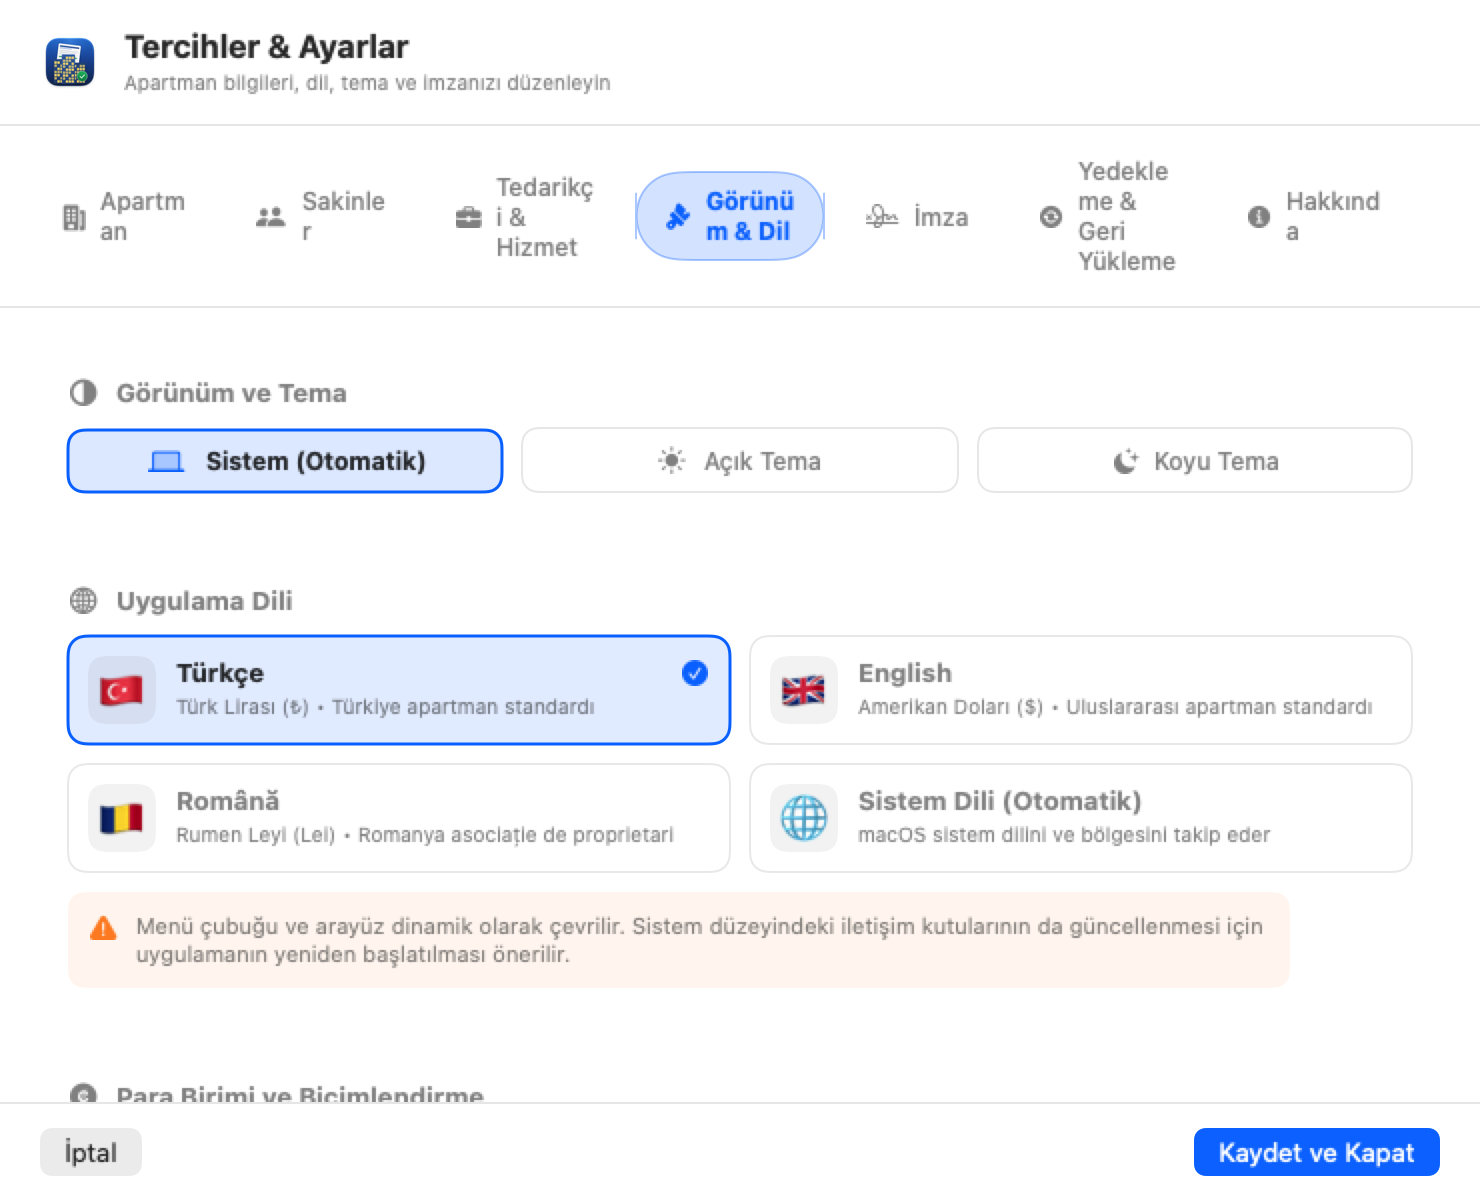
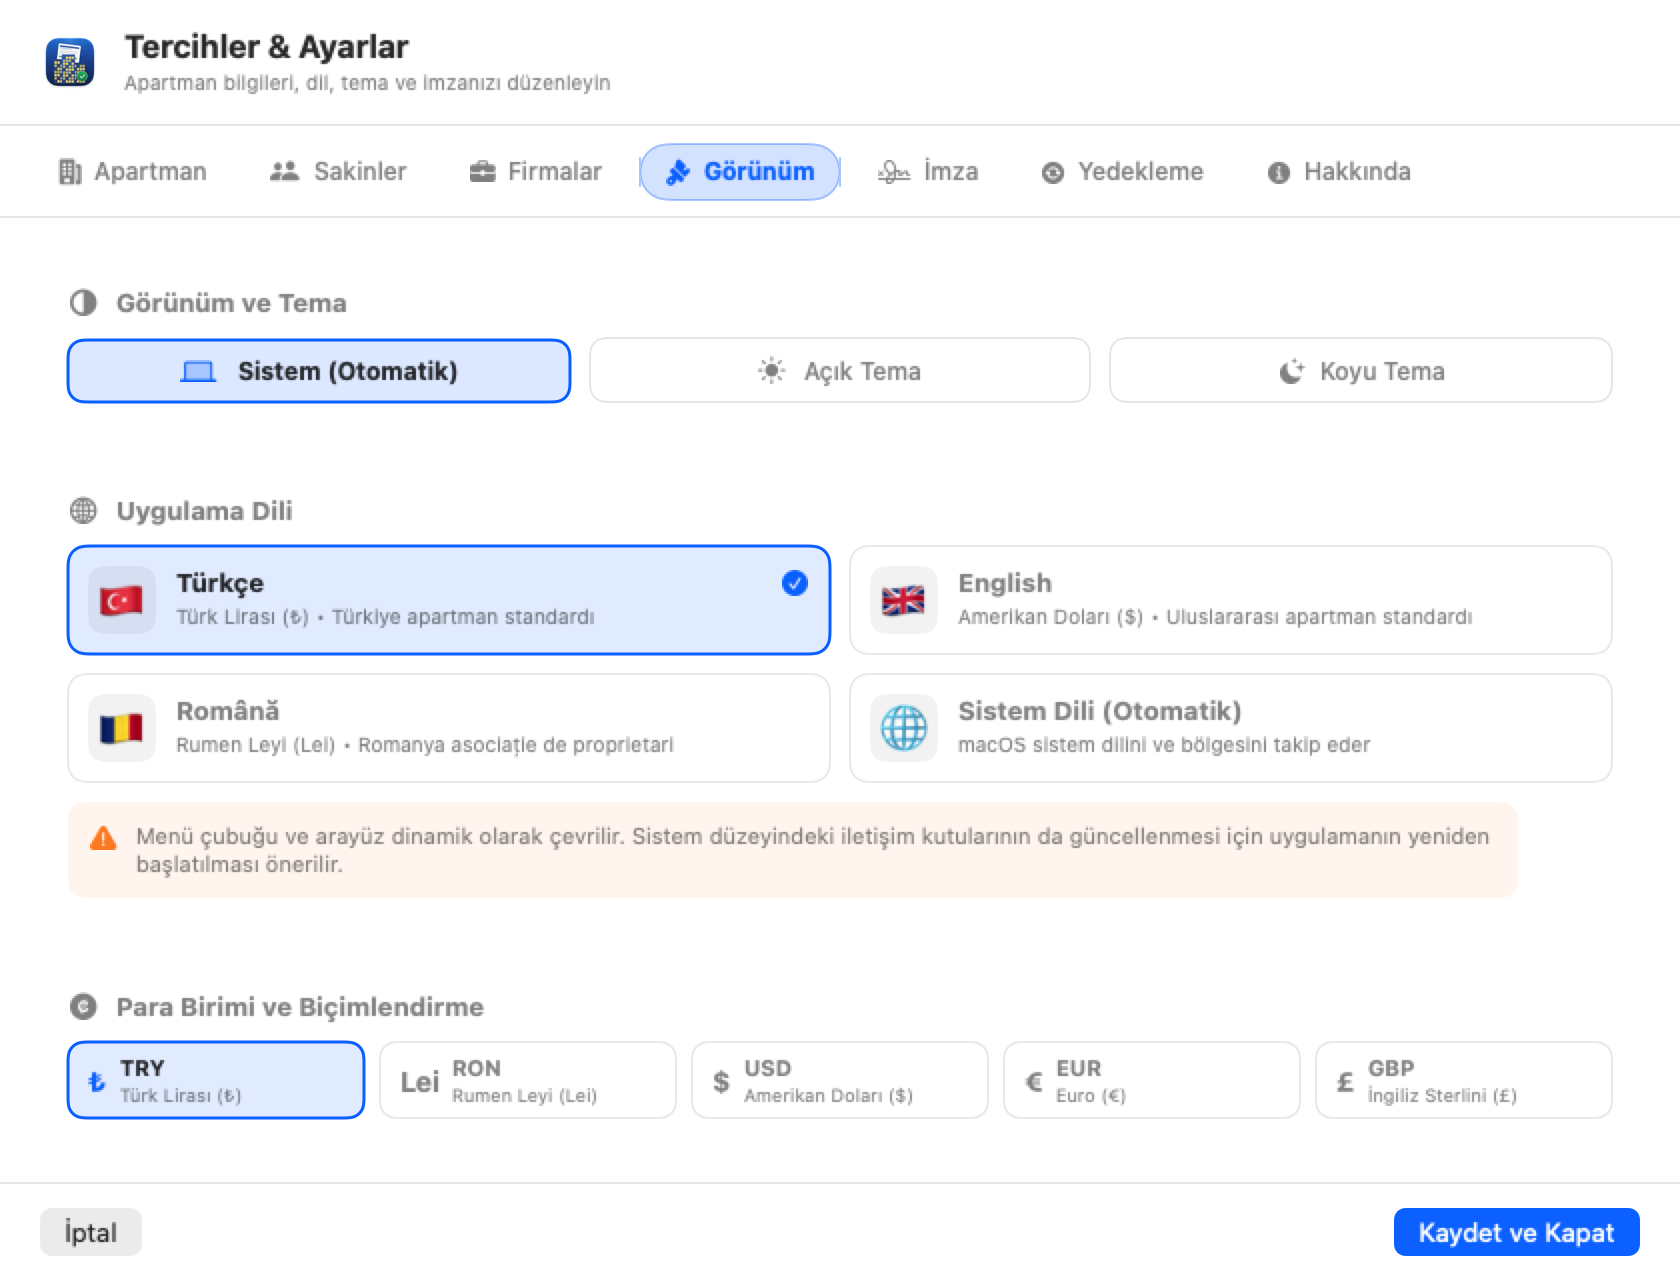
modify fix @ ui: 'expand settings and receipt archive layouts with unclipped cards and labels' - [ui]

diff --git a/aptreceipt/ViewController.swift b/aptreceipt/ViewController.swift
@@ -414,16 +414,16 @@ struct L10n {
     // Settings Tabs
     var tabBuilding: String { tr("Building", "Apartman", "Imobil") }
     var tabResidents: String { tr("Residents", "Sakinler", "Locatari") }
-    var tabAppearance: String { tr("Appearance & Language", "Görünüm & Dil", "Aspect & Limbă") }
+    var tabAppearance: String { tr("Appearance", "Görünüm", "Aspect") }
     var tabSignature: String { tr("Signature", "İmza", "Semnătură") }
-    var tabBackup: String { tr("Backup & Restore", "Yedekleme & Geri Yükleme", "Copie & Restaurare") }
+    var tabBackup: String { tr("Backup", "Yedekleme", "Copie") }
     var tabAbout: String { tr("About", "Hakkında", "Despre") }
 
     // Archive & History Strings
     var archiveTitle: String { tr("Receipt Archive & History", "Makbuz Arşivi ve Geçmişi", "Arhivă și Istoric Chitanțe") }
     var archiveSubtitle: String { tr("Search, review, re-print, and share previously generated receipts", "Daha önce kesilen makbuzları görüntüleyin, filtreleyin, yazdırın ve paylaşın", "Vizualizați, filtrați, tipăriți și partajați chitanțele emise") }
     var archiveSearchPlaceholder: String { tr("Search flat, person, company, or notes…", "Daire no, kişi, firma veya notlarda ara…", "Caută apartament, persoană, furnizor sau notă…") }
-    var filterAll: String { tr("All Receipts", "Tüm Makbuzlar", "Toate Chitanțele") }
+    var filterAll: String { tr("All", "Tümü", "Toate") }
     var filterIncome: String { tr("Income", "Gelir", "Încasări") }
     var filterOutcome: String { tr("Refund", "İade", "Restituiri") }
     var filterManagement: String { tr("Management", "İşletme", "Administrație") }
@@ -618,7 +618,7 @@ struct L10n {
     var applyScenarioButton: String { tr("Apply Preset", "Şablonu Uygula", "Aplică Șablonul") }
 
     // Vendors & Services Tab Strings
-    var tabVendors: String { tr("Vendors & Services", "Tedarikçi & Hizmet", "Furnizori & Servicii") }
+    var tabVendors: String { tr("Vendors", "Firmalar", "Furnizori") }
     var vendorsTitle: String { tr("Vendor Directory & Services", "Tedarikçi & Hizmet Yönetimi", "Gestiune Furnizori & Servicii") }
     var vendorsSubtitle: String { tr("Manage regular vendors, contractors, and preset operating expense services", "Düzenli çalıştığınız firma, usta ve hazır işletme gider kalemlerini yönetin", "Gestionați furnizorii uzuali și serviciile de întreținere") }
     var registeredVendorsBadge: String { tr("Registered Vendors", "Kayıtlı Firma", "Furnizori Înregistrați") }
@@ -763,10 +763,11 @@ struct MainScreen: View {
             ReceiptArchiveSheet(settings: settings) { selectedDraft in
                 viewModel.previewDraft = selectedDraft
             }
+            .frame(width: 860, height: 640)
         }
         .sheet(isPresented: $viewModel.isPresentingSettings) {
             SettingsView(settings: settings)
-                .frame(width: 680, height: 580)
+                .frame(width: 840, height: 640)
         }
         .sheet(isPresented: $settings.showLicenseViewer) {
             LicenseViewerSheet(l10n: l10n)
@@ -1792,6 +1793,17 @@ enum ReceiptKind: String, CaseIterable, Identifiable, Codable {
         }
     }
 
+    func badgeTitle(l10n: L10n) -> String {
+        switch self {
+        case .income:
+            return l10n.filterIncome
+        case .outcome:
+            return l10n.filterOutcome
+        case .managementExpense:
+            return l10n.filterManagement
+        }
+    }
+
     var iconName: String {
         switch self {
         case .income:
@@ -2751,7 +2763,7 @@ struct ReceiptArchiveSheet: View {
                         Text(l10n.filterManagement).tag("management")
                     }
                     .pickerStyle(.segmented)
-                    .frame(width: 340)
+                    .frame(width: 380)
                 }
 
                 // Stats Bar
@@ -2820,7 +2832,7 @@ struct ReceiptArchiveSheet: View {
             .padding(.vertical, 12)
             .background(Color(NSColor.windowBackgroundColor))
         }
-        .frame(minWidth: 700, minHeight: 520)
+        .frame(minWidth: 800, idealWidth: 860, minHeight: 560, idealHeight: 640)
     }
 
     private func archiveRecordRow(_ record: ReceiptRecord) -> some View {
@@ -2838,12 +2850,12 @@ struct ReceiptArchiveSheet: View {
                 Text("#\(record.sequenceNumber)")
                     .font(.system(size: 13, weight: .bold, design: .monospaced))
                     .foregroundColor(badgeColor)
-                Text(record.kind.title(l10n: l10n))
-                    .font(.system(size: 9, weight: .semibold))
+                Text(record.kind.badgeTitle(l10n: l10n))
+                    .font(.system(size: 10, weight: .semibold))
                     .foregroundColor(badgeColor)
                     .lineLimit(1)
             }
-            .frame(width: 80)
+            .frame(width: 86)
             .padding(.vertical, 6)
             .background(badgeColor.opacity(0.12))
             .clipShape(RoundedRectangle(cornerRadius: 6))
@@ -2853,6 +2865,7 @@ struct ReceiptArchiveSheet: View {
                 HStack(spacing: 6) {
                     Text(record.receiver)
                         .font(.system(size: 13, weight: .bold))
+                        .lineLimit(1)
                     if record.showApartmentNumber && record.apartmentNumber > 0 {
                         Text("\(l10n.flatPrefix) \(record.apartmentNumber)")
                             .font(.system(size: 10, weight: .semibold))
@@ -2878,6 +2891,7 @@ struct ReceiptArchiveSheet: View {
                     }
                 }
             }
+            .frame(maxWidth: .infinity, alignment: .leading)
 
             Spacer()
 
@@ -2885,7 +2899,7 @@ struct ReceiptArchiveSheet: View {
             Text(String(format: "%.2f %@", record.amount, record.currency.symbol))
                 .font(.system(size: 15, weight: .bold, design: .rounded))
                 .foregroundColor(badgeColor)
-                .frame(width: 120, alignment: .trailing)
+                .frame(width: 130, alignment: .trailing)
 
             // Actions
             HStack(spacing: 6) {

diff --git a/aptreceipt/PreferencesViewController.swift b/aptreceipt/PreferencesViewController.swift
@@ -106,38 +106,41 @@ struct SettingsView: View {
             Divider()
 
             // Tab Bar (Hero Segmented Deck)
-            HStack(spacing: 6) {
-                ForEach(SettingsTab.allCases) { tab in
-                    let isSelected = viewModel.selectedTab == tab
-                    Button {
-                        viewModel.selectedTab = tab
-                    } label: {
-                        HStack(spacing: 6) {
-                            Image(systemName: tab.iconName)
-                                .font(.system(size: 11, weight: isSelected ? .bold : .medium))
-                            Text(tab.title(l10n: l10n))
-                                .font(.system(size: 12, weight: isSelected ? .bold : .medium))
+            ScrollView(.horizontal, showsIndicators: false) {
+                HStack(spacing: 6) {
+                    ForEach(SettingsTab.allCases) { tab in
+                        let isSelected = viewModel.selectedTab == tab
+                        Button {
+                            viewModel.selectedTab = tab
+                        } label: {
+                            HStack(spacing: 5) {
+                                Image(systemName: tab.iconName)
+                                    .font(.system(size: 11, weight: isSelected ? .bold : .medium))
+                                Text(tab.title(l10n: l10n))
+                                    .font(.system(size: 12, weight: isSelected ? .bold : .medium))
+                                    .lineLimit(1)
+                                    .fixedSize(horizontal: true, vertical: false)
+                            }
+                            .padding(.horizontal, 12)
+                            .padding(.vertical, 6)
+                            .background(
+                                isSelected
+                                ? Color.accentColor.opacity(0.18)
+                                : Color.clear
+                            )
+                            .foregroundColor(isSelected ? .accentColor : .secondary)
+                            .clipShape(Capsule())
+                            .overlay(
+                                Capsule()
+                                    .stroke(isSelected ? Color.accentColor.opacity(0.35) : Color.clear, lineWidth: 1)
+                            )
                         }
-                        .padding(.horizontal, 14)
-                        .padding(.vertical, 7)
-                        .background(
-                            isSelected
-                            ? Color.accentColor.opacity(0.18)
-                            : Color.clear
-                        )
-                        .foregroundColor(isSelected ? .accentColor : .secondary)
-                        .clipShape(Capsule())
-                        .overlay(
-                            Capsule()
-                                .stroke(isSelected ? Color.accentColor.opacity(0.35) : Color.clear, lineWidth: 1)
-                        )
+                        .buttonStyle(.plain)
                     }
-                    .buttonStyle(.plain)
                 }
-                Spacer()
+                .padding(.horizontal, 16)
+                .padding(.vertical, 8)
             }
-            .padding(.horizontal, 16)
-            .padding(.vertical, 8)
             .background(Color(NSColor.controlBackgroundColor).opacity(0.6))
 
             Divider()
@@ -192,6 +195,7 @@ struct SettingsView: View {
             .padding(.vertical, 12)
             .background(Color(NSColor.windowBackgroundColor))
         }
+        .frame(minWidth: 800, idealWidth: 840, minHeight: 580, idealHeight: 640)
         .onAppear {
             viewModel.load(from: settings)
         }

diff --git a/aptreceipt/AppDelegate.swift b/aptreceipt/AppDelegate.swift
@@ -178,8 +178,8 @@ final class AppDelegate: NSObject, NSApplicationDelegate {
 
         // 3. Settings View (Hero Building & Settings)
         let settingsView = SettingsView(settings: settings, initialTab: .general)
-            .frame(width: 740, height: 600)
-        render(view: settingsView, size: CGSize(width: 740, height: 600), to: outDir.appendingPathComponent("03_settings_view.png"))
+            .frame(width: 840, height: 640)
+        render(view: settingsView, size: CGSize(width: 840, height: 640), to: outDir.appendingPathComponent("03_settings_view.png"))
 
         // 4. Management Expense Receipt Document
         let sampleOutcomeDraft = ReceiptDraft(
@@ -260,13 +260,23 @@ final class AppDelegate: NSObject, NSApplicationDelegate {
 
         // 9. Settings Vendors & Services Tab
         let vendorsSettingsView = SettingsView(settings: settings, initialTab: .vendors)
-            .frame(width: 740, height: 600)
-        render(view: vendorsSettingsView, size: CGSize(width: 740, height: 600), to: outDir.appendingPathComponent("09_settings_vendors.png"))
+            .frame(width: 840, height: 640)
+        render(view: vendorsSettingsView, size: CGSize(width: 840, height: 640), to: outDir.appendingPathComponent("09_settings_vendors.png"))
 
         // 10. Settings Appearance & Language Hero Deck
         let appearanceSettingsView = SettingsView(settings: settings, initialTab: .appearance)
-            .frame(width: 740, height: 600)
-        render(view: appearanceSettingsView, size: CGSize(width: 740, height: 600), to: outDir.appendingPathComponent("10_settings_appearance.png"))
+            .frame(width: 840, height: 640)
+        render(view: appearanceSettingsView, size: CGSize(width: 840, height: 640), to: outDir.appendingPathComponent("10_settings_appearance.png"))
+
+        // 11. Receipt Archive Sheet
+        let sampleArchiveStore = ReceiptArchiveStore.shared
+        if sampleArchiveStore.records.isEmpty {
+            sampleArchiveStore.add(draft: sampleDraft)
+            sampleArchiveStore.add(draft: sampleOutcomeDraft)
+        }
+        let archiveView = ReceiptArchiveSheet(settings: settings, onSelectDraft: { _ in })
+            .frame(width: 860, height: 640)
+        render(view: archiveView, size: CGSize(width: 860, height: 640), to: outDir.appendingPathComponent("11_receipt_archive.png"))
 
         print("Screenshots successfully generated in \(outDir.path)")
     }
@@ -484,13 +494,13 @@ final class SettingsWindowManager: NSObject, NSWindowDelegate {
         }
 
         let newWindow = NSWindow(
-            contentRect: NSRect(x: 0, y: 0, width: 750, height: 600),
+            contentRect: NSRect(x: 0, y: 0, width: 840, height: 640),
             styleMask: [.titled, .closable, .miniaturizable, .resizable],
             backing: .buffered,
             defer: false
         )
-        newWindow.minSize = NSSize(width: 680, height: 520)
-        newWindow.maxSize = NSSize(width: 960, height: 800)
+        newWindow.minSize = NSSize(width: 800, height: 580)
+        newWindow.maxSize = NSSize(width: 1040, height: 850)
         newWindow.title = actualSettings.l10n.settingsTitle
         newWindow.isReleasedWhenClosed = false
         newWindow.delegate = self
